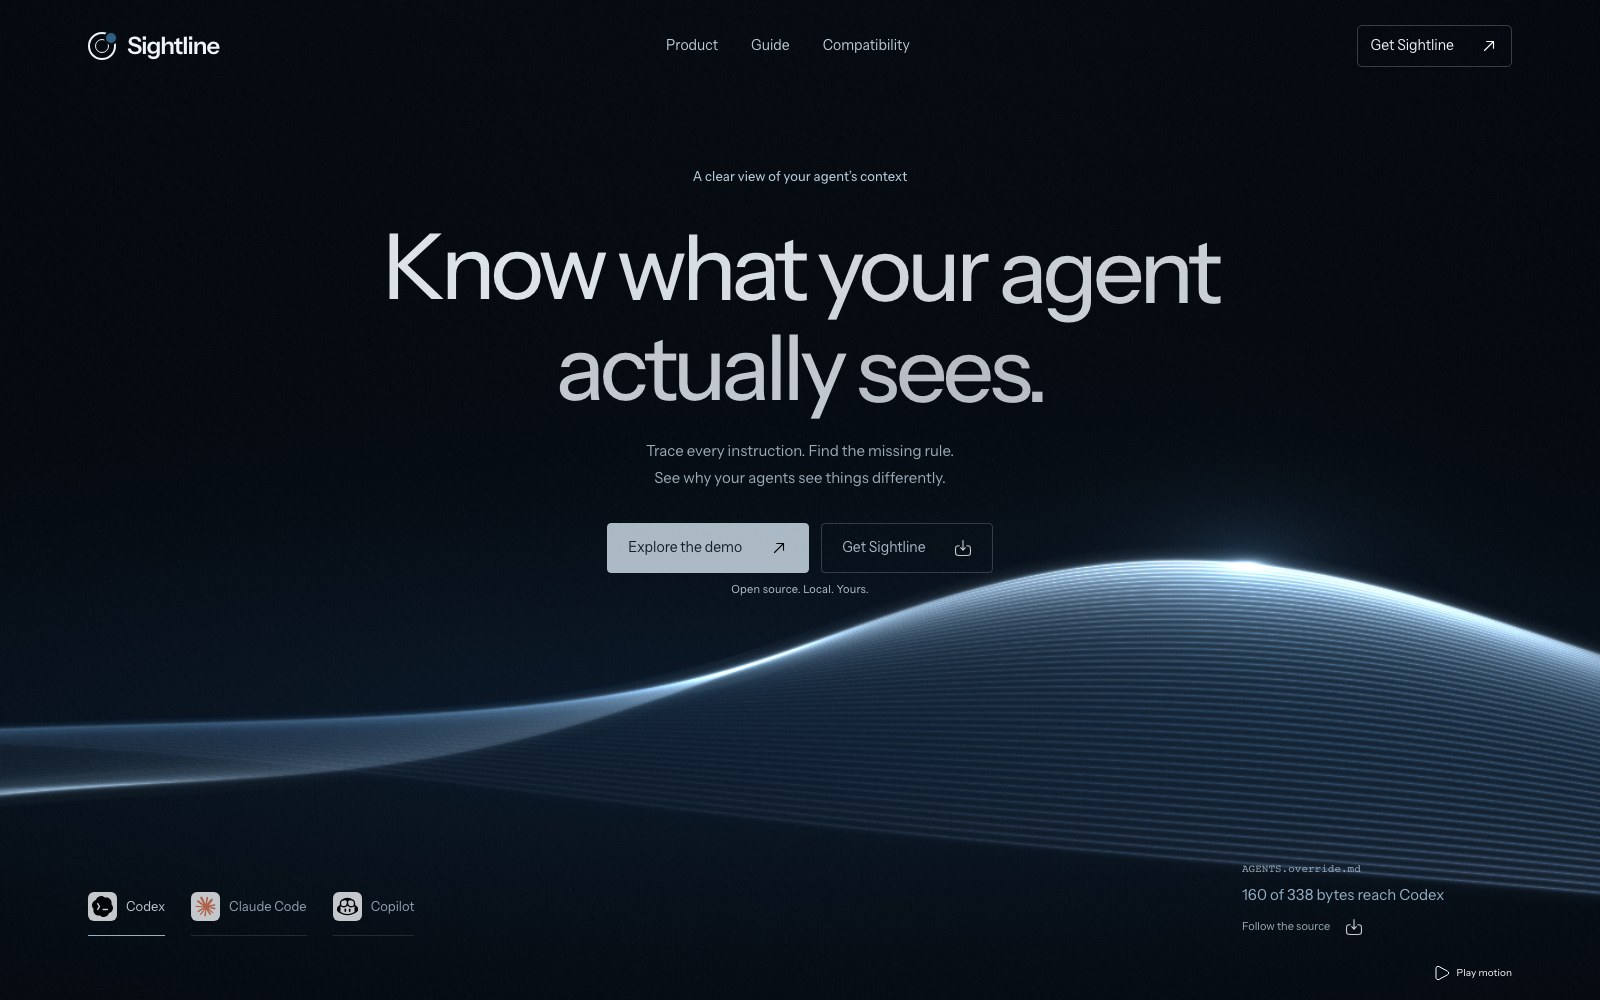
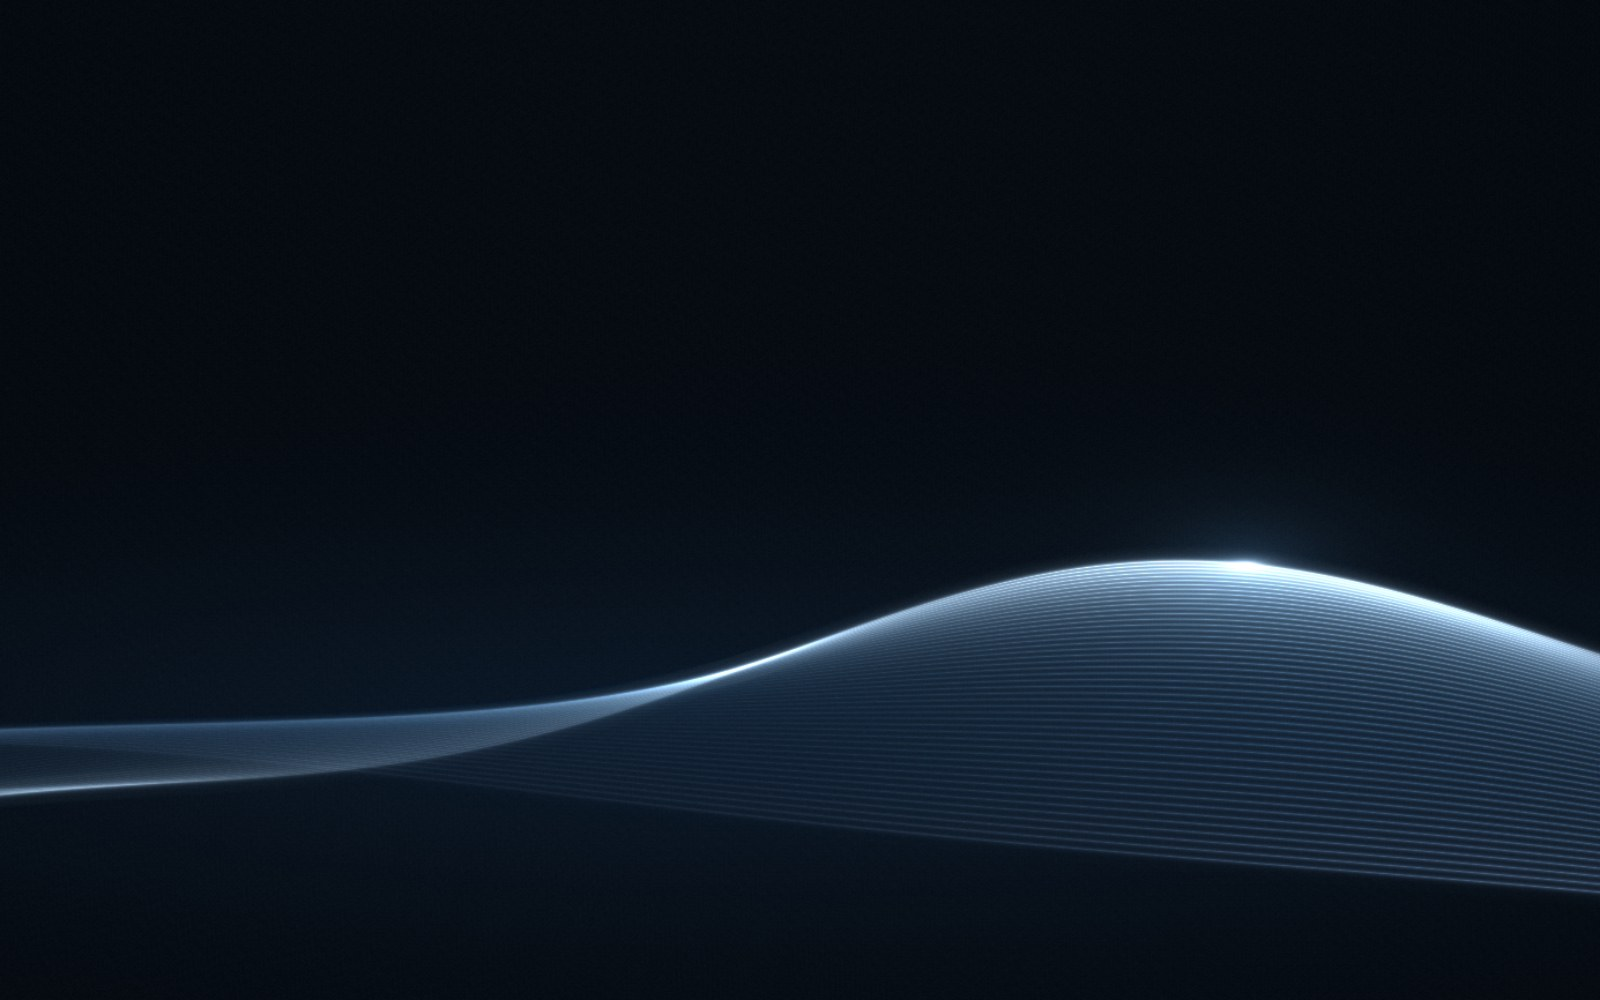
Fix static opening overlays and refresh sharing previews

diff --git a/tests/web/website.spec.ts b/tests/web/website.spec.ts
@@ -2,6 +2,7 @@ import { test, expect } from '@playwright/test';
 import { serveStatic } from '../../scripts/static-server.mjs';
 import { VERSION } from '../../packages/core/version.js';
 import { createHash } from 'node:crypto';
+import { readFile } from 'node:fs/promises';
 
 test('opening motion follows client selection and supports pause and reduced motion', async ({ page }) => {
   const server = await serveStatic('website/dist');
@@ -74,7 +75,21 @@ test('website connects the real client demo, workflow walkthrough, guide and dow
     page.on('response', response => { if (response.status() >= 400) failedResponses.push(response.url()); });
     await page.goto(server.url);
     await expect(page.locator('link[rel="canonical"]')).toHaveAttribute('href', 'https://agent-sightline.williamtse700.chatgpt.site/');
-    await expect(page.locator('meta[property="og:image"]')).toHaveAttribute('content', 'https://agent-sightline.williamtse700.chatgpt.site/social.png');
+    const socialImage = await readFile('website/public/social.png');
+    const socialHash = createHash('sha256').update(socialImage).digest('hex');
+    const socialPath = '/social.png?v=' + socialHash.slice(0, 12);
+    const socialUrl = 'https://agent-sightline.williamtse700.chatgpt.site' + socialPath;
+    await expect(page.locator('meta[property="og:image"]')).toHaveAttribute('content', socialUrl);
+    const preview = await page.request.get(server.url + socialPath);
+    expect(preview.ok()).toBe(true);
+    expect(preview.headers()['content-type']).toContain('image/png');
+    const previewData = await preview.body();
+    expect(createHash('sha256').update(previewData).digest('hex')).toBe(socialHash);
+    expect([previewData.readUInt32BE(16), previewData.readUInt32BE(20)]).toEqual([1200, 630]);
+    const posterHash = createHash('sha256').update(await readFile('website/public/images/context-field.jpg')).digest('hex');
+    await expect(page.locator('.hero-poster')).toHaveAttribute('src', '/images/context-field.jpg?v=' + posterHash.slice(0, 12));
+    const faviconHash = createHash('sha256').update(await readFile('website/public/favicon.png')).digest('hex');
+    await expect(page.locator('link[rel="icon"]')).toHaveAttribute('href', '/favicon.png?v=' + faviconHash.slice(0, 12));
     const robots = await page.request.get(server.url + '/robots.txt');
     expect(robots.ok()).toBeTruthy();
     expect(await robots.text()).toContain('Sitemap: https://agent-sightline.williamtse700.chatgpt.site/sitemap.xml');
@@ -100,6 +115,10 @@ test('website connects the real client demo, workflow walkthrough, guide and dow
[1 lines of base64/hex data omitted]
     await page.getByRole('link', { name: /Installation guide/ }).click();
     await expect(page.getByRole('heading', { name: 'Install Sightline', exact: true })).toBeVisible();
+    await expect(page.locator('meta[property="og:image"]')).toHaveAttribute('content', socialUrl);
+    await expect(page.locator('meta[property="og:url"]')).toHaveAttribute('content', 'https://agent-sightline.williamtse700.chatgpt.site/guide.html');
+    await expect(page.locator('meta[property="og:title"]')).toHaveAttribute('content', 'The Sightline guide');
+    await expect(page.locator('meta[name="twitter:card"]')).toHaveAttribute('content', 'summary_large_image');
     await page.getByRole('link', { name: 'Share a report', exact: true }).click();
     await expect(page.getByRole('heading', { name: 'Share what you found' })).toBeInViewport();
     expect(errors).toEqual([]);

diff --git a/website/public/guide.html b/website/public/guide.html
@@ -1,6 +1,17 @@
 <!doctype html>
 <html lang="en">
-<head><meta charset="utf-8"><meta name="viewport" content="width=device-width,initial-scale=1"><meta name="description" content="Install Sightline, inspect your first repository and learn how to trace instructions, compare clients and share a report."><title>The Sightline guide</title><link rel="canonical" href="https://agent-sightline.williamtse700.chatgpt.site/guide.html"><link rel="icon" href="/favicon.png"><link rel="stylesheet" href="/site.css"><script src="/site.js" defer></script></head>
+<head><meta charset="utf-8"><meta name="viewport" content="width=device-width,initial-scale=1"><meta name="description" content="Install Sightline, inspect your first repository and learn how to trace instructions, compare clients and share a report."><title>The Sightline guide</title>
+<meta property="og:title" content="The Sightline guide">
+<meta property="og:description" content="Install Sightline, inspect your first repository and learn how to trace instructions, compare clients and share a report.">
+<meta property="og:type" content="website">
+<meta property="og:site_name" content="Agent Sightline">
+<meta property="og:url" content="https://agent-sightline.williamtse700.chatgpt.site/guide.html">
+<meta property="og:image" content="https://agent-sightline.williamtse700.chatgpt.site/social.png?v={{SOCIAL_REV}}">
+<meta property="og:image:width" content="1200">
+<meta property="og:image:height" content="630">
+<meta property="og:image:alt" content="Sightline opening with layered blue contours and configuration previews for Codex, Claude Code and Copilot">
+<meta name="twitter:card" content="summary_large_image">
+<link rel="canonical" href="https://agent-sightline.williamtse700.chatgpt.site/guide.html"><link rel="icon" href="/favicon.png?v={{FAVICON_REV}}"><link rel="stylesheet" href="/site.css"><script src="/site.js" defer></script></head>
 <body>
 <header class="site-header"><a class="brand" href="/"><span class="brand-mark" aria-hidden="true"></span>Sightline</a><nav aria-label="Main navigation"><a href="/#product">Product</a><a href="/guide.html" aria-current="page">Guide</a><a href="/#compatibility">Compatibility</a></nav><a class="nav-download" href="/#download">Get Sightline ↗</a></header>
 <main class="guide-layout"><aside class="guide-nav" aria-label="Guide sections"><strong>THE GUIDE</strong><a href="#install">Install Sightline</a><a href="#first-scan">Your first scan</a><a href="#instructions">Trace instructions</a><a href="#profiles">Codex profiles</a><a href="#compare">Compare clients</a><a href="#reports">Share a report</a><a href="#ci">Run in CI</a><a href="#compatibility">Coverage & privacy</a></aside><article class="guide-content"><p class="eyebrow">Start here</p><h1>A little clarity<br><em>goes a long way.</em></h1><p>Get from “why is my agent ignoring this?” to a source file, a loading rule and a next step.</p>

diff --git a/tests/web/website-prefix.spec.ts b/tests/web/website-prefix.spec.ts
@@ -28,7 +28,16 @@ test('project-hosted website loads assets, demo, guide and the exact released pa
     await page.route('**/demo-report.json', async route => { await dataGate.promise; await route.continue(); });
     await page.goto(server.url + prefix);
     await expect(page.locator('link[rel="canonical"]')).toHaveAttribute('href', publicUrl);
-    await expect(page.locator('meta[property="og:image"]')).toHaveAttribute('content', publicUrl + 'social.png');
+    const socialHash = createHash('sha256').update(await readFile('website/public/social.png')).digest('hex');
+    const socialPath = 'social.png?v=' + socialHash.slice(0, 12);
+    await expect(page.locator('meta[property="og:image"]')).toHaveAttribute('content', publicUrl + socialPath);
+    const preview = await page.request.get(server.url + prefix + socialPath);
+    expect(preview.ok()).toBe(true);
+    expect(createHash('sha256').update(await preview.body()).digest('hex')).toBe(socialHash);
+    const faviconHash = createHash('sha256').update(await readFile('website/public/favicon.png')).digest('hex');
+    const faviconPath = 'favicon.png?v=' + faviconHash.slice(0, 12);
+    await expect(page.locator('link[rel="icon"]')).toHaveAttribute('href', prefix + faviconPath);
+    expect((await page.request.get(server.url + prefix + faviconPath)).ok()).toBe(true);
     await expect(page.locator('#demo-status')).toHaveText('Truncated');
     await page.getByRole('tab', { name: /Claude Code/ }).click();
     dataGate.resolve();
@@ -43,6 +52,9 @@ test('project-hosted website loads assets, demo, guide and the exact released pa
     await expect(page).toHaveURL(server.url + prefix + 'guide.html#install');
     await expect(page.getByRole('heading', { name: 'Inspect a Codex profile' })).toBeVisible();
     await expect(page.locator('link[rel="canonical"]')).toHaveAttribute('href', publicUrl + 'guide.html');
+    await expect(page.locator('meta[property="og:url"]')).toHaveAttribute('content', publicUrl + 'guide.html');
+    await expect(page.locator('meta[property="og:image"]')).toHaveAttribute('content', publicUrl + socialPath);
+    await expect(page.locator('link[rel="icon"]')).toHaveAttribute('href', prefix + faviconPath);
     await page.getByRole('link', { name: 'Interactive demo', exact: true }).click();
     await expect(page.locator('#mode-label')).toHaveText('Report snapshot');
     await page.locator('#compare-tab').click();

diff --git a/website/public/index.html b/website/public/index.html
@@ -10,14 +10,14 @@
   <meta property="og:type" content="website">
   <meta property="og:site_name" content="Agent Sightline">
   <meta property="og:url" content="https://agent-sightline.williamtse700.chatgpt.site/">
-  <meta property="og:image" content="https://agent-sightline.williamtse700.chatgpt.site/social.png">
+  <meta property="og:image" content="https://agent-sightline.williamtse700.chatgpt.site/social.png?v={{SOCIAL_REV}}">
   <meta property="og:image:width" content="1200">
   <meta property="og:image:height" content="630">
-  <meta property="og:image:alt" content="Sightline configuration inspector for Codex, Claude Code and GitHub Copilot">
+  <meta property="og:image:alt" content="Sightline opening with layered blue contours and configuration previews for Codex, Claude Code and Copilot">
   <meta name="twitter:card" content="summary_large_image">
   <link rel="canonical" href="https://agent-sightline.williamtse700.chatgpt.site/">
   <title>Sightline — Know what your agent actually sees.</title>
-  <link rel="icon" href="/favicon.png">
+  <link rel="icon" href="/favicon.png?v={{FAVICON_REV}}">
   <link rel="preload" href="/fonts/instrument-sans.woff2" as="font" type="font/woff2" crossorigin>
   <link rel="stylesheet" href="/site.css">
   <script src="/hero.js" type="module"></script>
@@ -28,7 +28,7 @@
   <header class="site-header"><a class="brand" href="/" aria-label="Sightline home"><span class="brand-mark" aria-hidden="true"></span>Sightline</a><nav aria-label="Main navigation"><a href="#product">Product</a><a href="/guide.html">Guide</a><a href="#compatibility">Compatibility</a></nav><a class="nav-download" href="#download">Get Sightline <img class="ui-icon" src="/ui/arrow-right-up-linear.svg" width="18" height="18" alt=""></a></header>
   <main id="main">
     <section class="hero" aria-labelledby="hero-title" data-client="codex" data-renderer="static" data-motion="static">
-      <img class="hero-poster" src="/images/context-field.jpg" width="1600" height="1000" alt="" fetchpriority="high">
+      <img class="hero-poster" src="/images/context-field.jpg?v={{POSTER_REV}}" width="1600" height="1000" alt="" fetchpriority="high">
       <canvas id="context-field" aria-hidden="true"></canvas>
       <div class="hero-copy">
         <p class="eyebrow">The local configuration inspector for coding agents</p>
